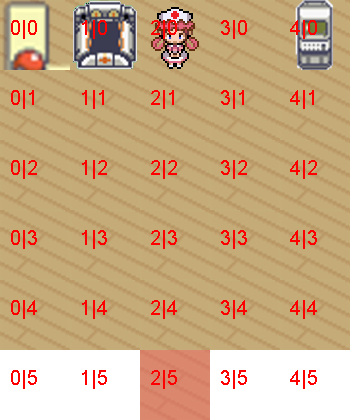
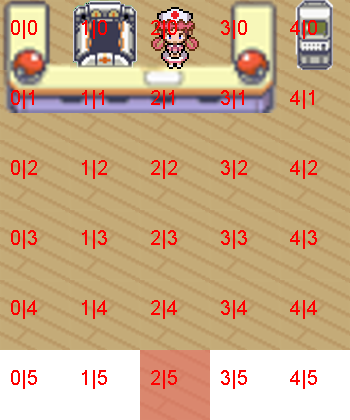
Changed update map algorithm
Changed the update map algorithm

Pokecenter desk is now considered as a building

Changed region(s): [[0.0, 0.0, 0.8, 0.2786]]

diff --git a/Spiel/src/de/alexanderciupka/pokemon/map/Route.java b/Spiel/src/de/alexanderciupka/pokemon/map/Route.java
@@ -15,6 +15,7 @@ import com.google.gson.JsonElement;
 import com.google.gson.JsonNull;
 import com.google.gson.JsonObject;
 
+import de.alexanderciupka.pokemon.characters.Character;
 import de.alexanderciupka.pokemon.characters.NPC;
 import de.alexanderciupka.pokemon.characters.Player;
 import de.alexanderciupka.pokemon.gui.GameFrame;
@@ -35,6 +36,7 @@ public class Route {
 	private HashMap<String, ArrayList<Point>> buildings;
 	private PokemonPool pokemonPool;
 	private ArrayList<NPC> characters;
+	private BufferedImage tempMap;
 	private BufferedImage map;
 	private RainType rain;
 	private SnowType snow;
@@ -165,6 +167,7 @@ public class Route {
 	}
 
 	public void createMap() {
+		tempMap = new BufferedImage(width * 70, height * 70, BufferedImage.TYPE_4BYTE_ABGR);
 		map = new BufferedImage(width * 70, height * 70, BufferedImage.TYPE_4BYTE_ABGR);
 		Point[] points = new Point[this.width * this.height];
 		for (int x = 0; x < this.width; x++) {
@@ -174,16 +177,22 @@ public class Route {
 		}
 		updateMap(points);
 		saveMap();
+		map = tempMap;
 	}
 
 	public void updateMap(Point... updatePoint) {
+		while(wait) {
+			try {
+				Thread.sleep(1);
+			} catch (InterruptedException e) {
+				e.printStackTrace();
+			}
+		}
 		wait = true;
-		if (map != null) {
-//			BufferedImage temp = new BufferedImage(630, 630, map.getType());
+		if (tempMap != null) {
 			Player mc = GameController.getInstance().getMainCharacter();
-			Graphics g = map.getGraphics();
+			Graphics g = tempMap.getGraphics();
 
-//			g.drawImage(map, 0, 0, null);
 			for (Point p : updatePoint) {
 				try {
 					g.drawImage(entities[p.y][p.x].getTerrain(), p.x * 70, p.y * 70, null);
@@ -200,29 +209,50 @@ public class Route {
 			for(NPC npc : this.characters) {
 				g.drawImage(npc.getCharacterImage(), (int) (npc.getExactX() * 70), (int) (npc.getExactY() * 70), null);
 			}
-//			HashSet<de.alexanderciupka.pokemon.characters.Character> needsRepaint = new HashSet<>();
 			for (String building : this.buildings.keySet()) {
 				BufferedImage currentBuilding = GameController.getInstance().getRouteAnalyzer().getSpriteByName(building);
 				for (Point p : this.buildings.get(building)) {
 					g.drawImage(currentBuilding, p.x * 70, p.y * 70, null);
-//					if(mc != null && (mc.getExactX() * 70 + mc.getCharacterImage().getWidth(null) < p.x * 70 || mc.getExactX() * 70 > p.x * 70 + currentBuilding.getWidth() ||
-//							(mc.getExactY() * 70 + mc.getCharacterImage().getHeight(null) < p.y * 70 || mc.getExactY() * 70 > (p.y + 1) * 70 + currentBuilding.getHeight()))) {
-//						needsRepaint.add(mc);
-//					}
-//					for(NPC npc : this.characters) {
-//						if((npc.getExactX() * 70 + npc.getCharacterImage().getWidth(null) < p.x * 70 || npc.getExactX() * 70 > p.x * 70 + currentBuilding.getWidth()) ||
-//								(npc.getExactY() * 70 + npc.getCharacterImage().getHeight(null) < p.y * 70 || npc.getExactY() * 70 > (p.y + 1) * 70 + currentBuilding.getHeight())) {
-//							needsRepaint.add(npc);
-//						}
-//					}
 				}
 			}
-//			for(de.alexanderciupka.pokemon.characters.Character npc : needsRepaint) {
-//				g.drawImage(npc.getCharacterImage(), (int) (npc.getExactX() * 70), (int) (npc.getExactY() * 70), null);
-//			}
-			if (mc != null && this.equals(mc.getCurrentRoute(), false) && this.entities[mc.getCurrentPosition().y][mc.getCurrentPosition().x].getWarp() != null) {
+			
+			ArrayList<Character> character = new ArrayList<>(this.characters);
+			character.add(GameController.getInstance().getMainCharacter());
+			
+			for(int i = 0; i < character.size(); i++) {
+				Character c = character.get(i);
+				boolean repaint = true;
+				for (String building : this.buildings.keySet()) {
+					if(!repaint) {
+						break;
+					}
+					BufferedImage currentBuilding = GameController.getInstance().getRouteAnalyzer().getSpriteByName(building);
+					for (Point p : this.buildings.get(building)) {
+						if(!repaint) {
+							break;
+						}
+						int buildingWidth = currentBuilding.getWidth() - (currentBuilding.getWidth() % GameFrame.GRID_SIZE);
+						int buildingHeight = currentBuilding.getHeight() - (currentBuilding.getHeight() % GameFrame.GRID_SIZE);
+						if((c.getExactX() * 70 + c.getCharacterImage().getWidth(null) < p.x * 70 || 
+								c.getExactX() * 70 > p.x * 70 + buildingWidth) ||
+								(c.getExactY() * 70 + c.getCharacterImage().getHeight(null) < p.y * 70 || 
+										c.getExactY() * 70 > (p.y + 1) * 70 + buildingHeight)) {
+							character.remove(c);
+							repaint = false;
+						}
+					}
+				}
+				if(repaint) {
+					g.drawImage(c.getCharacterImage(), (int) (c.getExactX() * 70), (int) (c.getExactY() * 70), null);
+				}
+			}
+			if (mc != null && this.equals(mc.getCurrentRoute(), false) && 
+					(this.entities[mc.getCurrentPosition().y][mc.getCurrentPosition().x].getWarp() != null ||
+							(mc.getOldPosition().x < this.width && mc.getOldPosition().y < this.height && 
+									this.entities[mc.getOldPosition().y][mc.getOldPosition().x].getWarp() != null))) {
 				g.drawImage(mc.getCharacterImage(), (int) (mc.getExactX() * 70), (int) (mc.getExactY() * 70), null);
 			}
+			map = tempMap;
 		}
 		wait = false;
 	}
@@ -236,6 +266,9 @@ public class Route {
 
 	void saveMap() {
 		try {
+			while(wait) {
+				Thread.sleep(1);
+			}
 			Graphics g = map.getGraphics();
 			g.setFont(g.getFont().deriveFont(20.0f));
 			for (int y = 0; y < height; y++) {
@@ -266,8 +299,11 @@ public class Route {
 
 	public BufferedImage getMap() {
 		while (wait) {
-			System.out.println(wait);
-			Thread.yield();
+			try {
+				Thread.sleep(1);
+			} catch (InterruptedException e) {
+				e.printStackTrace();
+			}
 		}
 		return this.map;
 	}

diff --git a/Spiel/src/de/alexanderciupka/pokemon/map/RouteAnalyzer.java b/Spiel/src/de/alexanderciupka/pokemon/map/RouteAnalyzer.java
@@ -426,6 +426,7 @@ public class RouteAnalyzer {
 							case "PCD":
 								currentEntity = new Entity(currentRoute, false, "pokecenter_desk", 0,
 										currentRoute.getTerrainName());
+								currentRoute.addBuilding("pokecenter_desk", new Point(x, y));
 								break;
 							case "MD":
 								currentEntity = new Entity(currentRoute, true, "movedown", 0,
